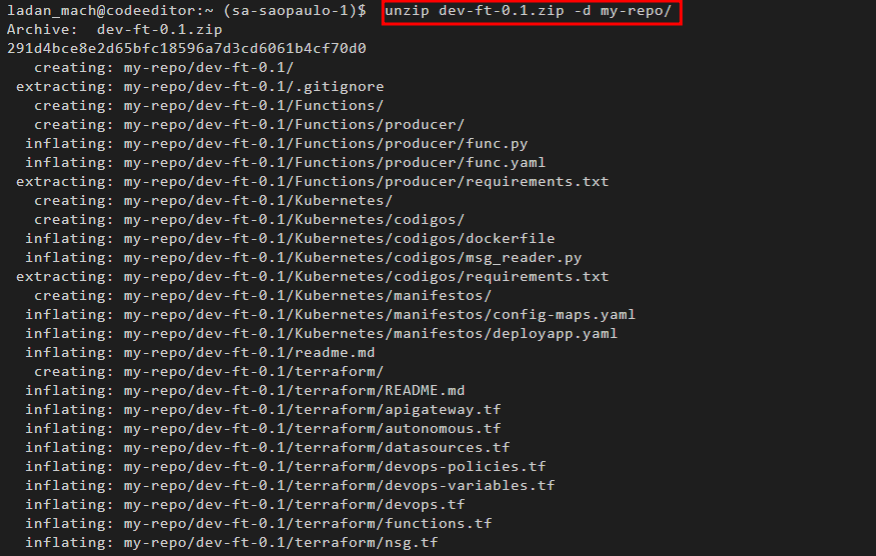
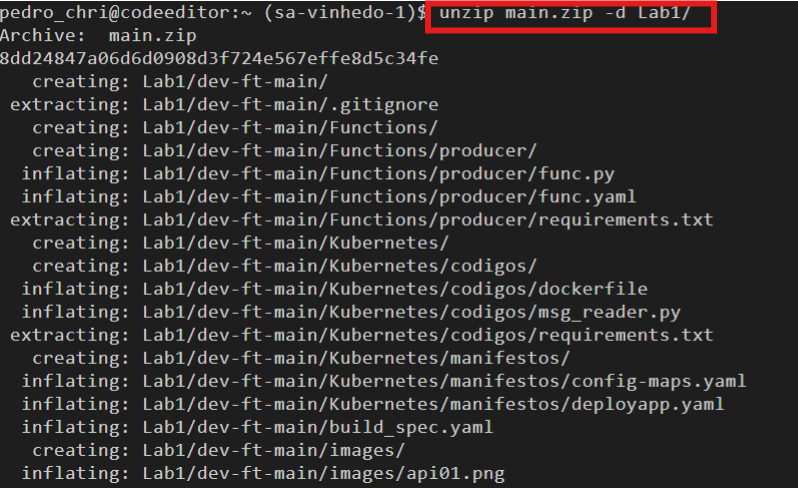
Update Lab

Changed region(s): [[0.0, 0.0, 0.9323, 1.0]]

diff --git a/readme.md b/readme.md
@@ -4,8 +4,9 @@
   - [Deploy do Ambiente](#deploy-do-ambiente)
   - [Lab1 - OCI DevOps](#lab1---oci-devops)
   - [Lab2 - Functions, Api Gateway e Queue](#lab2---functions-api-gateway-e-queue)
-  - [Functions](#functions)
-  - [API Gateway](#api-gateway)
+    - [Functions](#functions)
+    - [API Gateway](#api-gateway)
+    - [Enviando Menssagem](#enviando-menssagem)
   - [Lab3 - Kubernetes](#lab3---kubernetes)
     - [Configurar acesso do Cluster no Cloud Shell](#configurar-acesso-do-cluster-no-cloud-shell)
     - [Buscar informações de Serviços necessários](#buscar-informações-de-serviços-necessários)
@@ -44,24 +45,23 @@ O ambiente vai ser todo provisionado via Terraform, vamos utilizar um serviço d
    ![](/images/user01.png)
    2.  Dentro do seu profile vai em **Auth Tokens** e depois em **Generate token** essa será seu password para se autenticar no repositorio criado
  ![](/images/user02.png)
-
-1.  Após gerado o token vamos voltar ao **OCI DevOps** ir em **Code Repositories** entrar no repo que criamos no  _passo 4_ ir em **Details** e descendo a tela ir em **HTTPS** 
-   
-2.  Após isso em uma nova abra abra o **Code Editor** 
+6.  Após gerado o token vamos voltar ao **OCI DevOps** ir em **Code Repositories** entrar no repo que criamos no  _passo 4_ ir em **Details** e descendo a tela ir em **HTTPS** 
+     
+7.  Após isso em uma nova abra abra o **Code Editor** 
 ![](/images/code-editor.png)
   Lá no final vamos ter um comando do git clone, copie esse comando e vá até ao **Code Editor**, é um comando que começa assim
       ```bash
     git clone https://devops.....
     ```
- 
-1.  Após isso em uma nova abra abra o  **Code Editor** 
-![](/images/code-editor.png)
-1. E copie o comando no terminal
-  ![](/images/terminal.png)
+8. Siga o tutorial na parte de baixo do repositório de código criado.
+   ![Repo Clone](/images/git-clone.png)
+9.  Após isso em uma nova abra abra o **Code Editor** 
+   ![](/images/code-editor.png)
 
-1.  Após isso, ele vai pedir o username e password, na tabela abaixo mostra qual será o seu username e password (token criado no _passo 5_)
+10. E copie o comando no terminal
+ ![](/images/terminal.png)
 
-
+11. Após isso, ele vai pedir o username e password, na tabela abaixo mostra qual será o seu username e password (token criado no _passo 5_
 <table>
   <tr>
     <td>username</td>
@@ -73,71 +73,74 @@ O ambiente vai ser todo provisionado via Terraform, vamos utilizar um serviço d
   </tr>
 </table>
 
-11. Depois de feito o git clone de maneira correta vamos fazer o upload do arquivo, mas primeiramente vamos fazer o download do mesmo nesse link: https://github.com/ChristoPedro/dev-ft/archive/refs/tags/v0.1.zip
-12.  Vá em **File** e depois em **Upload Files** e faço o upload do arquivo que fez o download **dev-ft-0.1.zip**
-![](/images/code-editor02.png)
-
-
- Rode o seguinte comando para fazer o unzip
+12.   Depois de feito o git clone de maneira correta vamos fazer o download do repositório do Lab utilizando o seguinte comando no code editor
+    
   ```bash
-    unzip dev-ft-0.1.zip -d DIRETORIO REPO
+  wget https://github.com/ChristoPedro/dev-ft/archive/refs/heads/main.zip
+  ```
+13.  Rode o seguinte comando para fazer o unzip
+  ```bash
+    unzip main.zip -d [DIRETORIO REPO]
   ```
 
 ![](/images/unzip.png)
 
-13. Depois vamos fazer os seguintes comandos para fazer o push para o repositorio
+14. Depois vamos fazer os seguintes comandos para fazer o push para o repositorio
   ```bash
     cd DIRETORIO_CRIADO_REPO
     git config --global user.email "EMAIL DO SEU USUARIO"
+    git config --global user.name "SEU USUARIO"
     git add .
     git commit -m "novo commit"
     git push
   ```
-14. Repo irá ficar assim: 
-    ![](/images/devops-repo.png)
+16. Repo irá ficar assim: 
+  ![](/images/devops-repo.png)
 
-15. Agora vamos criar a nossa pipeline, vamos voltar ao **OCI DevOps** -> **Projects** -> **Build Pipelines** e **Create build pipeline** e vamos dar um nome a nossa pipeline de build e depois ir em **Create**
+17. Agora vamos criar a nossa pipeline, vamos voltar ao **OCI DevOps** -> **Projects** -> **Build Pipelines** e **Create build pipeline** e vamos dar um nome a nossa pipeline de build e depois ir em **Create**
     ![](/images/build01.png)
 
-16. Após a criação vamos adicionar um estágio indo no **Add Stage** , depois vamos dar **Next** e iremos cair nessa tela:
- ![](/images/build02.png)
- ![](/images/build03.png)
+18. Após a criação vamos adicionar um estágio indo no **Add Stage** , depois vamos dar **Next** e iremos cair nessa tela:
+    ![](/images/build02.png)
+    ![](/images/build03.png)
 
-17. Na tela de configuração entre com um nome no **Stage name**, pode deixar as configurações de _Shape_ , _Image_ e _subnet_ padrão, só vamos alterar o **Build_spec file path** que é o caminnhioo até o nosso arquivo de build spec dentro do repositorio onde fizemos o commit e vamos colocar esse caminho:
-    ```bash
-        dev-ft-0.1/build_spec.yaml
-    ```
-18. Após isso vamos **Primary code repository** -> **select** -> **OCI Code Repository** seleciona o repositorio criado e clique em **Select**
-19. Depois só dar **Add** e já temos o nosso primeiro stage onde iremos buildar a nossa função, no próximo passa vamos fazer um push dessa image até o repositorio
-20. Embaixo no stage criado no passa anterior vá no sinal de **+** e depois em **Add Stage** e depois em **Deliver Artifacts** 
- ![](/images/build04.png)
- ![](/images/build05.png)
+19. Na tela de configuração entre com os seguites parametros:
+* **Stage Name**: Build_Function
+* **Shape, Image e Subnet**: Default
+*  **Build_spec file path** : dev-ft-main/build_spec.yaml
+  
+20.  Após isso vamos **Primary code repository** -> **select** -> **OCI Code Repository** seleciona o repositorio criado e clique em **Select**
+    ![select code](/images/primary-code.png)
+21. Depois só dar **Add** e já temos o nosso primeiro stage onde iremos buildar a nossa função, no próximo passa vamos fazer um push dessa image até o repositorio
+22. Embaixo no stage criado no passa anterior vá no sinal de **+** e depois em **Add Stage** e depois em **Deliver Artifacts** 
+    ![](/images/build04.png)
+    ![](/images/build05.png)
 
-21. Vamos entrar com um nome no **Stage Name** e depois vamos criar um artefato no ***Create Artifact**
-22. No Artefato vamos colocar um nome e será do tipo **Container image repository** e no **Artifact source: Container registry** temos que entrar no o caminho até o nosso repositorio seguindo o modelo proposto
+23. Vamos preencher o nome do **Stage Name** como delivery_container e depois vamos criar um artefato no **Create Artifact**
+24. No Artefato vamos colocar um nome e será do tipo **Container image repository** e no **Artifact source: Container registry** temos que entrar no o caminho até o nosso repositorio seguindo o modelo proposto
     ```bash
       <region-key>.ocir.io\<tenancy-namespace>\<repo-name>:<tag>
     ```
 
-23. A region key podemos encontrar nesse link: https://docs.oracle.com/en-us/iaas/Content/General/Concepts/regions.htm
+25. A region key podemos encontrar nesse link: https://docs.oracle.com/en-us/iaas/Content/General/Concepts/regions.htm
     1.  Ex: Região de São Paulo é gru, Vinhedo é vpc e Ashburn é iad
     2.  Para pegarmos o tenancy namespace vamos até o **profile** boneco no canto da direita e depois em **Tenancy** ira mudar a tela e teremos no **Object storage namespace** o nosso namespace
       ![](/images/namespace.png)
       ![](/images/namespace2.png)
 
-24. Com essas duas informações e já com o nosso repositorio criado pelo terraform (nome do repo é **java-img**) podemos entrar com as informações, no meu caso ficou assim, basta apenas colocar o namespace de vocês mais o region key (estou usando são paulo)
+26. Com essas duas informações e já com o nosso repositorio criado pelo terraform (nome do repo é **function-img**) podemos entrar com as informações, no meu caso ficou assim, basta apenas colocar o namespace de vocês mais o region key (estou usando são paulo)
     ```bash
-      gru.ocir.io\gr3yho6wbbm5\java-img:latest
+      [Region-Key].ocir.io\[namespace]\function-img:latest
     ```
-25. Apois isso no **Build config/result artifact name** colocar o **output_fn_network** ficando assim nossa configuração final
-![](/images/build06.png)
+27. Apois isso no **Build config/result artifact name** colocar o **function** ficando assim nossa configuração final
+    ![](/images/build06.png)
 
-26. Apoós isso vamos rodar manualmente a nossa esteira para buildar a nossa aplicação e fazer o push no nosso registry
+28. Apoós isso vamos rodar manualmente a nossa esteira para buildar a nossa aplicação e fazer o push no nosso registry
    ![](/images/build07.png)
 
 ## Lab2 - Functions, Api Gateway e Queue
 
-## Functions
+### Functions
 1. Vamos criar a nossa functions dentro no serviço de **Functions**, assim que a esteira rodar vamos ter uma image dentro do nosso **OCI Registry** , vamos em **Developer Services** -> **Functions** -> **Applications** e vamos entrar no **functionworkshop**
 2. Vamos fazer um create function no modelo de **Create from existing image** conforme as imagens abaixo
  ![](/images/fn01.png)
@@ -152,7 +155,7 @@ O ambiente vai ser todo provisionado via Terraform, vamos utilizar um serviço d
 
 6. Após isso, vamos criar o nosso deployment no **API Gateway**
 
-## API Gateway
+### API Gateway
 
 1. Vamos em **Developer Services** -> **API Gateway** -> **API Gateway FT**
 2. Vamos em **Deployments** -> **Create deployment**
@@ -174,6 +177,16 @@ Pórem como o nosso route foi o /cliente nosso endpoint ficará assim
   ```bash
     https://nxtjmvbllu7tao5uztmhbhsjc4.apigateway.sa-saopaulo-1.oci.customer-oci.com/v1/cliente
   ```
+
+### Enviando Menssagem
+
+Execute o comando abaixo substituindo o endpoint pelo do seu Deployment no Api Gateway
+
+```bash
+curl --location '[Seu Endpoint]' \
+--header 'Content-Type: application/json' \
+--data '{"Teste" : "Lab2"}'
+```
 
 ## Lab3 - Kubernetes
 
